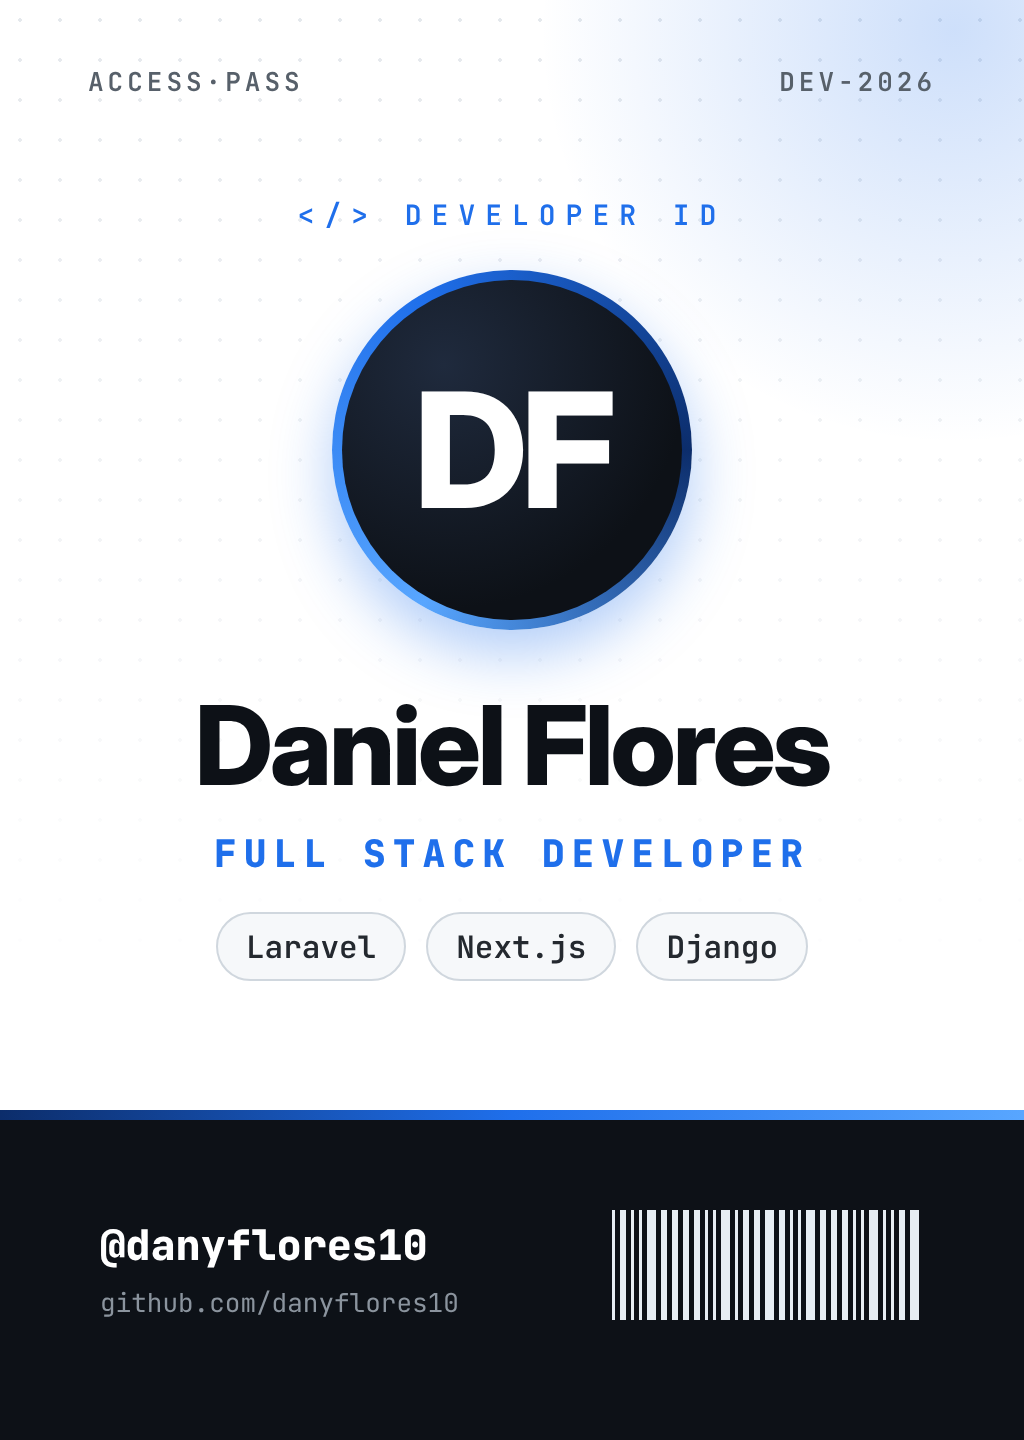
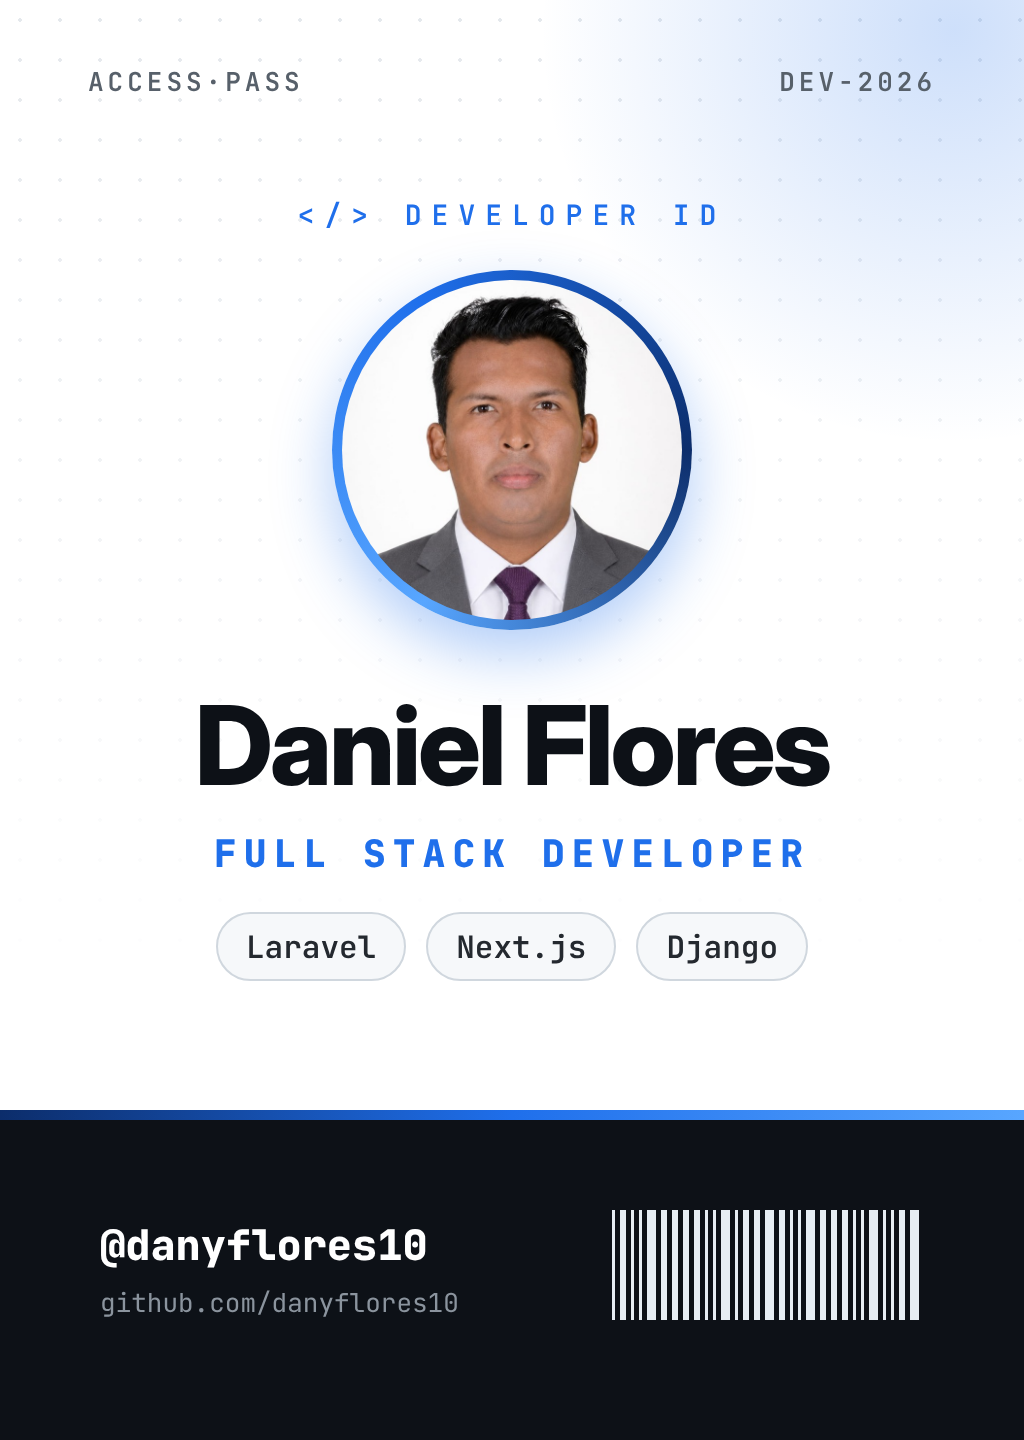
Use profile photo on the lanyard ID card
Claude-Session: https://claude.ai/code/session_01USY3Qjr6vAEBTpdEuPidZH

Changed region(s): [[0.3125, 0.1875, 0.6875, 0.4375]]

diff --git a/README.md b/README.md
@@ -3,7 +3,7 @@
 
 <img src="https://capsule-render.vercel.app/api?type=waving&height=260&color=0:0d1117,50:0c2d6b,100:1f6feb&text=Daniel%20Flores&fontSize=62&fontColor=ffffff&fontAlignY=36&desc=Full%20Stack%20Developer&descSize=22&descAlignY=57&animation=fadeIn" width="100%" alt="Daniel Flores — Full Stack Developer"/><br/>
 <!-- ID CARD (lanyard 3D renderizado con React Bits + Three.js) -->
-<a href="https://github.com/danyflores10"><img src="./assets/lanyard-card.webp" width="240" alt="Daniel Flores — Developer ID"/></a>
+<a href="https://github.com/danyflores10"><img src="./assets/lanyard-id.webp" width="240" alt="Daniel Flores — Developer ID"/></a>
 
 <img src="https://readme-typing-svg.demolab.com?font=JetBrains+Mono&weight=600&size=22&duration=3000&pause=1000&color=58A6FF&center=true&vCenter=true&width=600&height=45&lines=Full+Stack+Developer;Laravel+%C2%B7+Next.js+%C2%B7+Django;Architecting+Scalable+Solutions;Clean+Code+%26+Best+Practices;From+Frontend+to+Deployment" alt="Typing SVG"/>
 
